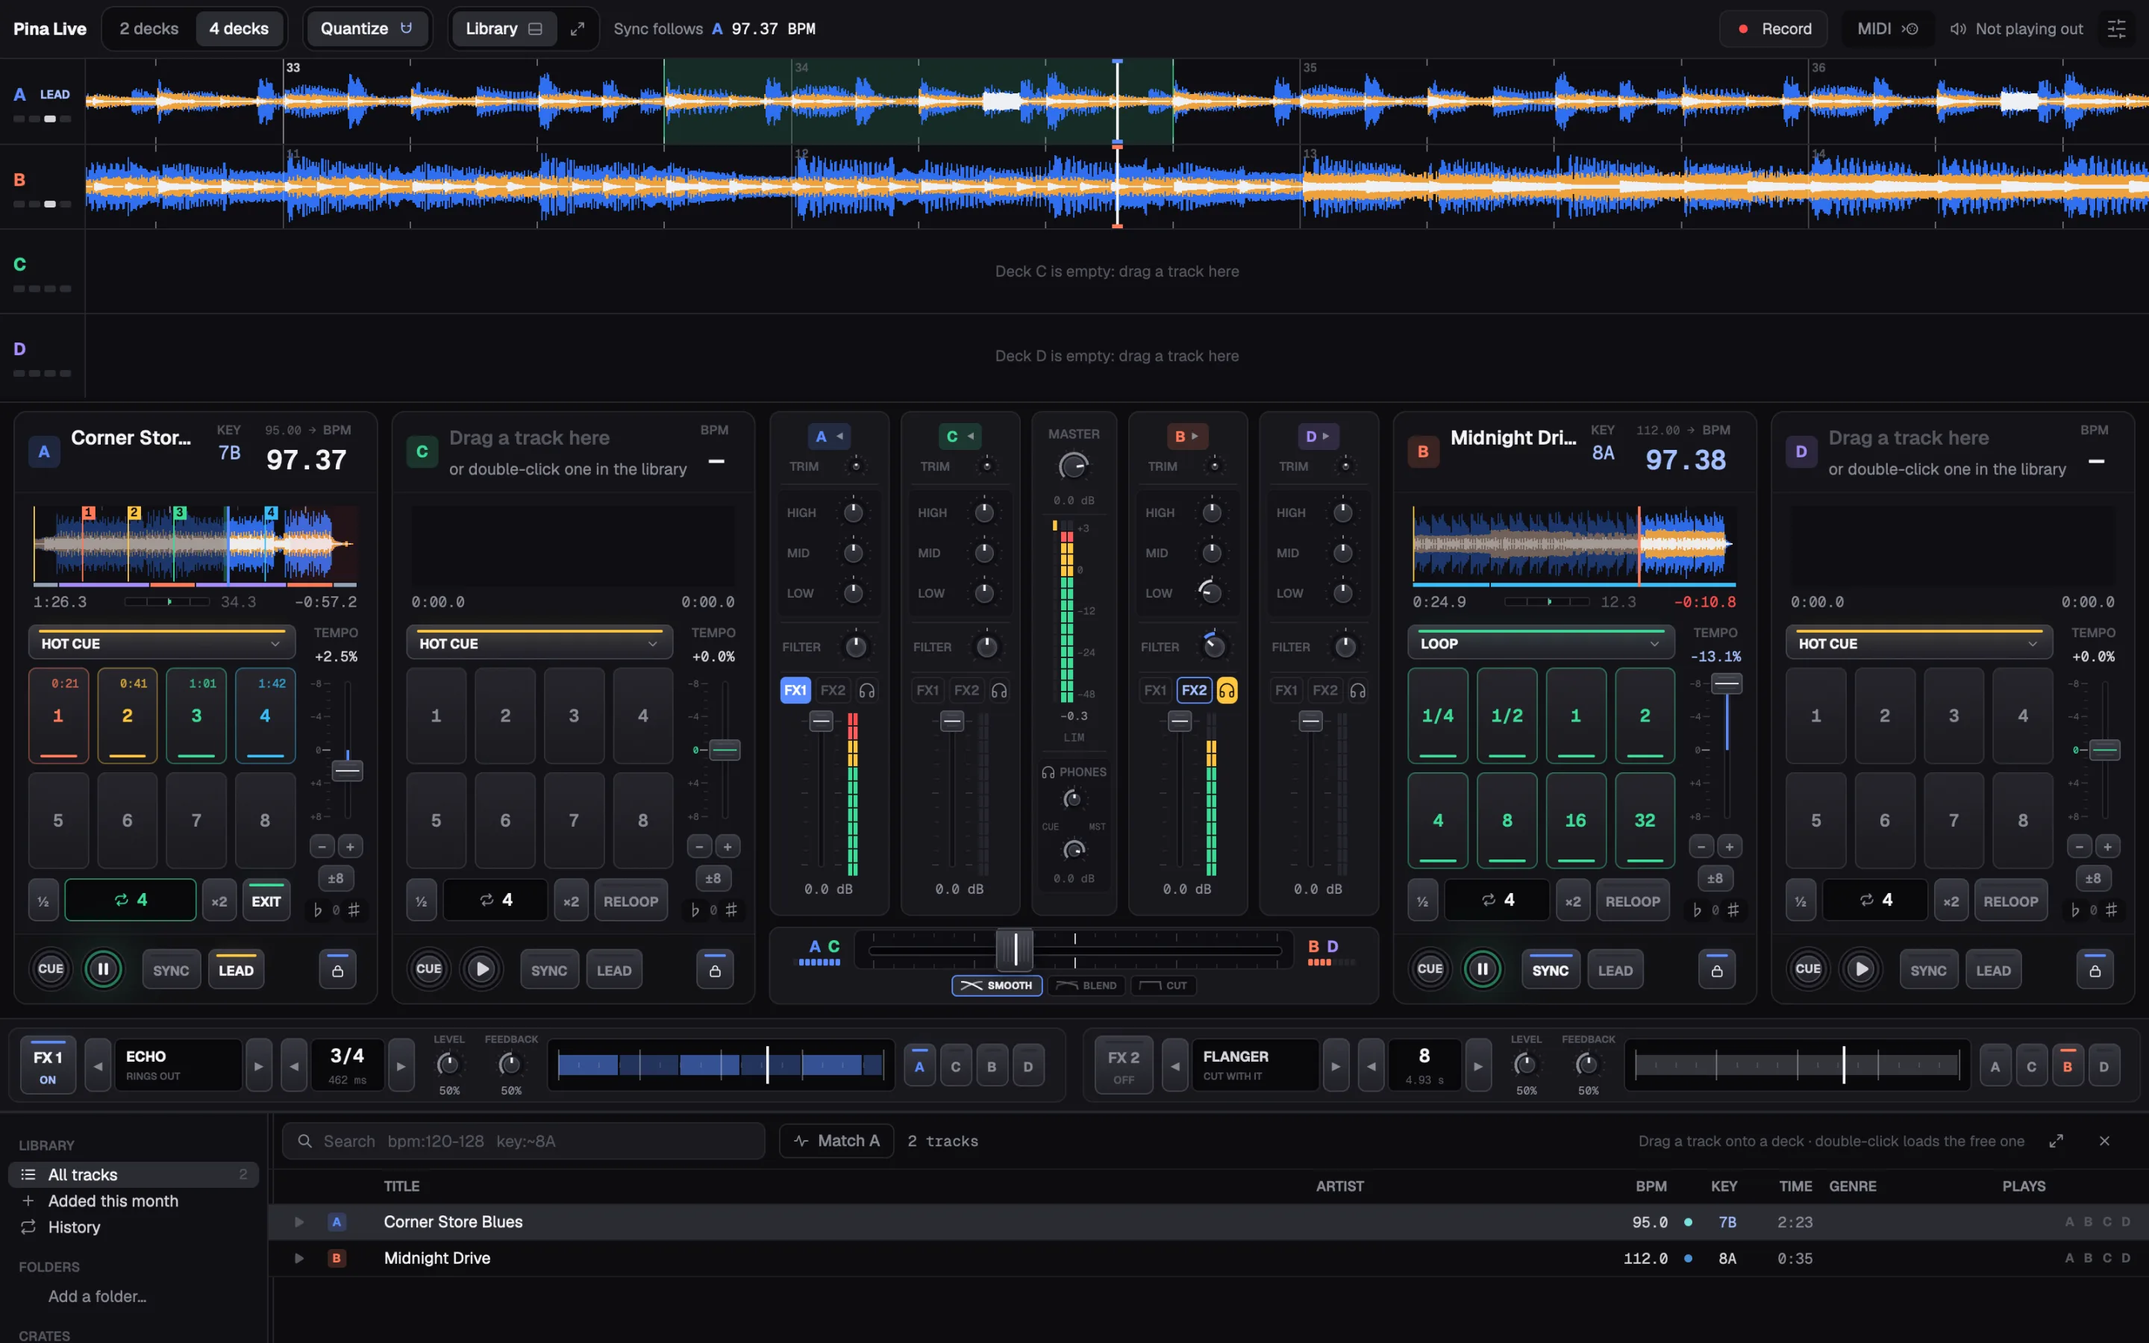
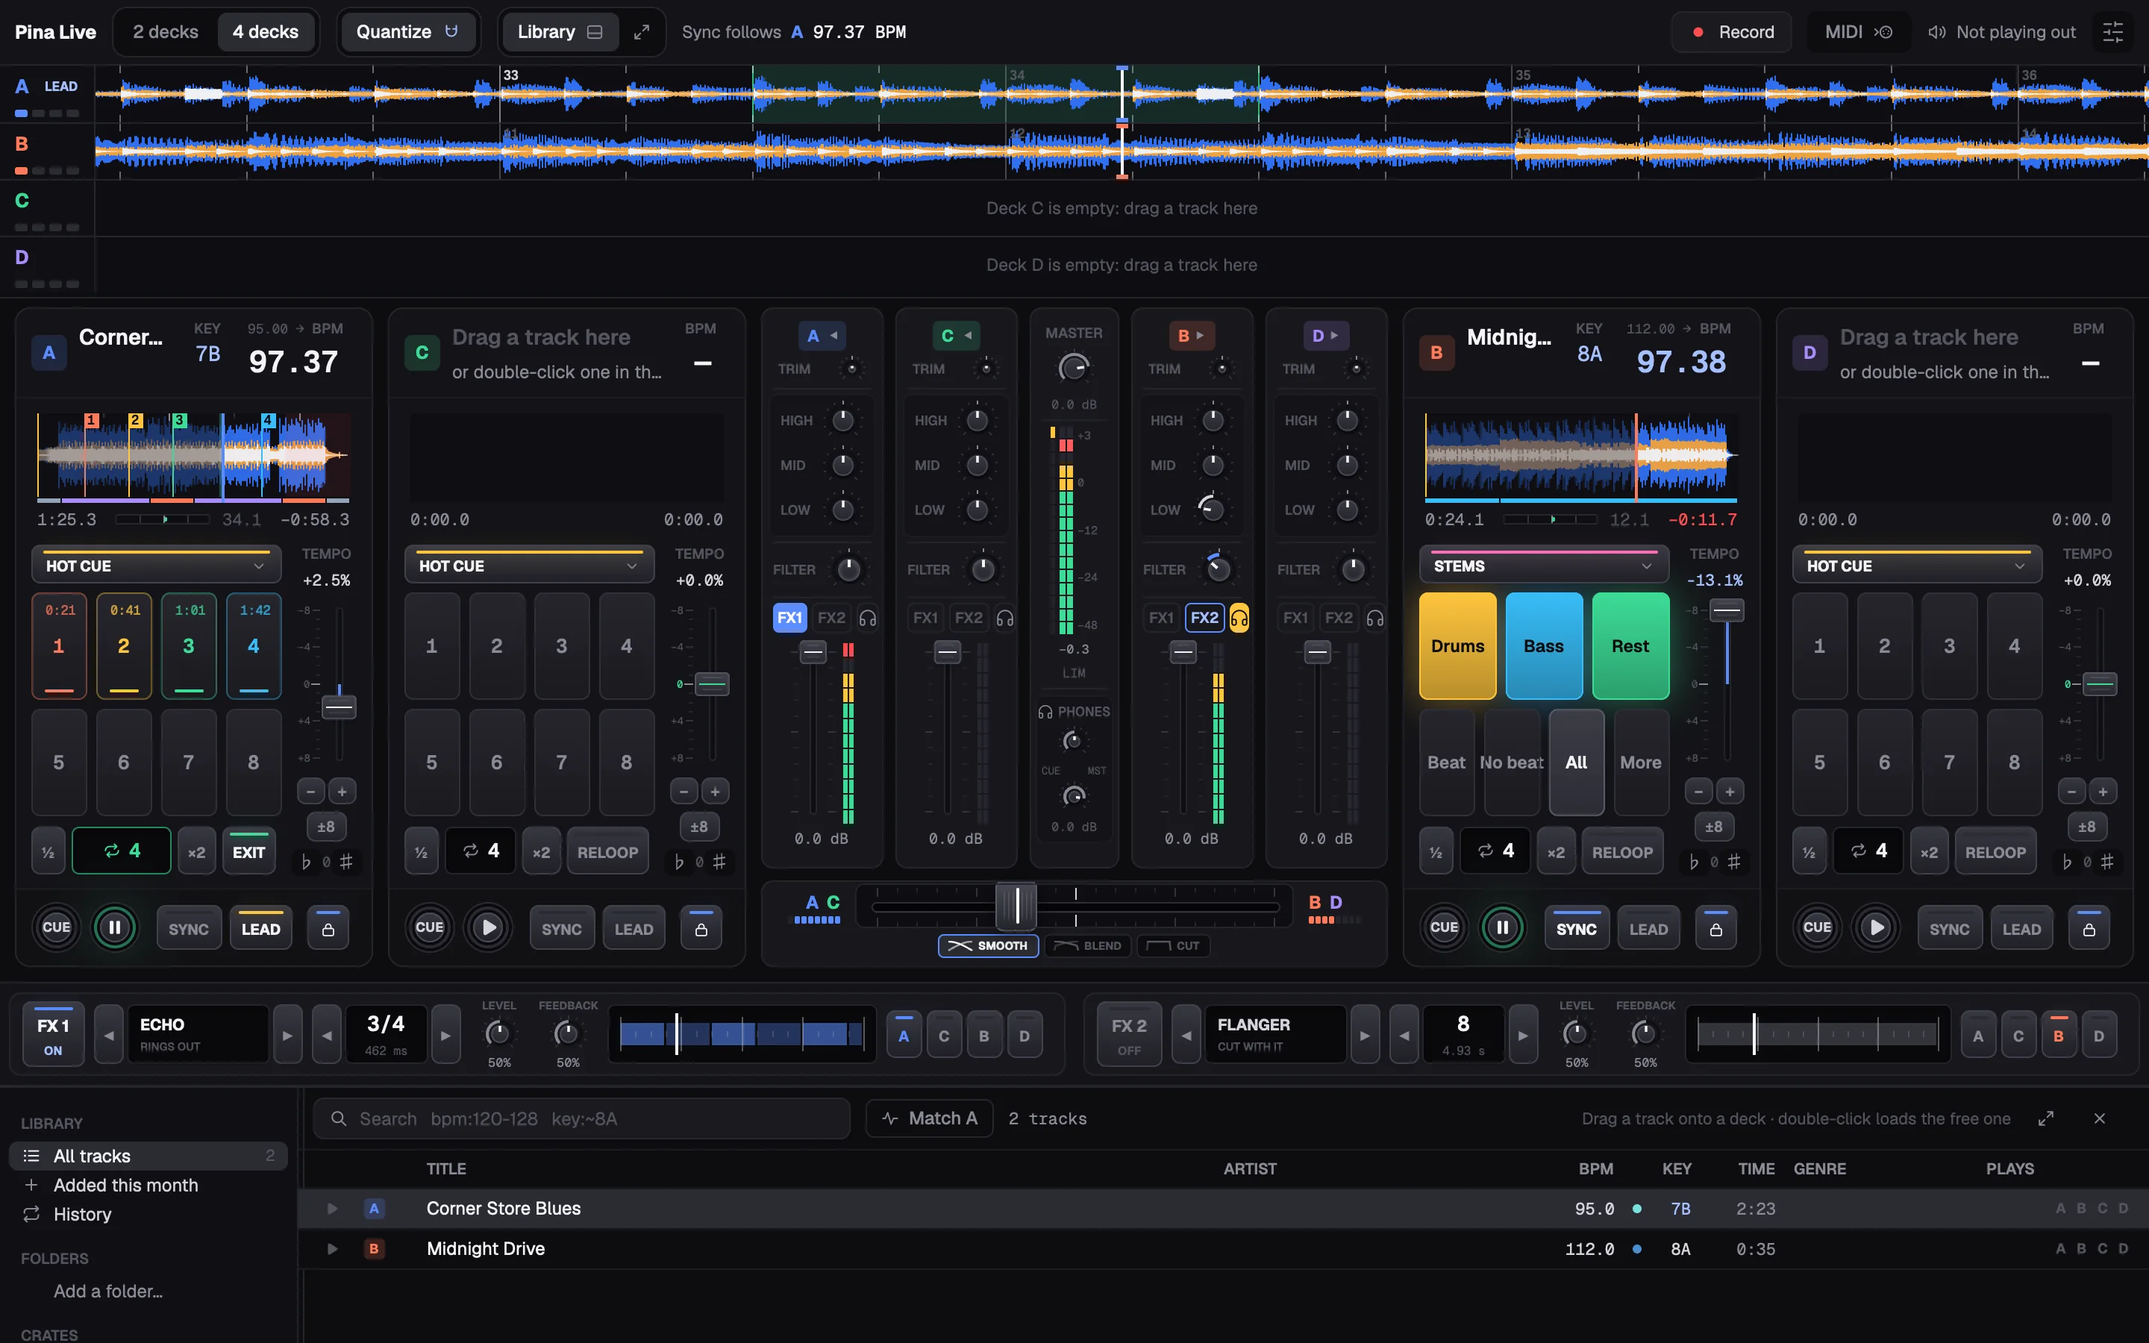
Website: Pina Live as Pina Studio's sister app, out now
The Pina Live section says what it is (Pina Studio's sister app, on the
same engine), with Download (the visitor's platform) and Open in your
browser, its version and the other platform. The download section gets
Pina Live beside Pina Studio: the disk image, the installer and zip, and
the browser. downloads.js fills both apps' links from their latest
releases. Fresh screenshots of today's decks, stems and four decks.

diff --git a/site/index.html b/site/index.html
@@ -691,9 +691,22 @@
     <!-- ============ PINA LIVE ============ -->
     <section class="studio" id="live" aria-labelledby="live-title">
       <header class="wrap section-head">
-        <p class="eyebrow reveal">Pina Live</p>
-        <h2 class="h2 reveal" id="live-title">Then take it to the decks. <span class="tone-2">Pina Live runs on the same engine.</span></h2>
-        <p class="lead reveal">Pina Live is a DJ app built on Pina Studio's engine: the same keylock stretch, the same ear for beat, bar and key, the same effects and limiter, and the same stem separation, made for playing live. Two decks or four, sync that lands on the bar, and stems you can pull apart mid-mix. It isn't out yet.</p>
+        <p class="eyebrow reveal">Pina Live <span class="sister-tag">Sister app</span></p>
+        <h2 class="h2 reveal" id="live-title">Pina Studio's sister app, for the decks. <span class="tone-2">Same engine, made to play live.</span></h2>
+        <p class="lead reveal">Pina Live is DJ software on Pina Studio's engine: the same keylock stretch, the same ear for beat, bar and key, the same effects and limiter, and the same stem separation. Two decks or four, sync that lands on the bar, and stems you can pull apart mid-mix. Free and open source, for macOS, Windows and your browser.</p>
+        <div class="hero__cta live__cta reveal">
+          <div class="hero__buttons">
+            <a class="btn btn--light btn--lg" data-live-dl="primary" href="https://github.com/manyeya/pina-live/releases/latest">
+              <svg class="ico" viewBox="0 0 24 24" aria-hidden="true"><path d="M12 4v11m0 0-4.5-4.5M12 15l4.5-4.5M5 19.5h14"/></svg>
+              <span data-live-dl-label="primary">Download Pina Live</span>
+            </a>
+            <a class="btn btn--glass btn--lg" href="https://manyeya.github.io/pina-live/" target="_blank" rel="noopener">
+              <svg class="ico" viewBox="0 0 24 24" aria-hidden="true"><rect x="3.5" y="5" width="17" height="14" rx="2.5"/><path d="M3.5 9h17M10 12.5l4 2.25-4 2.25z"/></svg>
+              <span>Open in your browser</span>
+            </a>
+          </div>
+          <p class="meta">Version <span data-live-version>0.1.0</span><span class="size" data-live-dl-size="primary"></span><span class="sep">/</span>also for <a data-live-dl="other" href="https://github.com/manyeya/pina-live/releases/latest"><span data-live-dl-other="label">Windows</span></a><span class="sep">/</span><a href="https://github.com/manyeya/pina-live">Source on GitHub</a></p>
+        </div>
       </header>
 
       <div class="wrap">
@@ -708,24 +721,24 @@
             <div class="tabs__panel" role="tabpanel" id="panel-live-decks" aria-labelledby="tab-live-decks" tabindex="0">
               <figure class="shot shot--fit" style="--ar:1.6" data-react>
                 <div class="glow" aria-hidden="true"><i></i><i></i><i></i><i></i><i></i></div>
-                <div class="bleed" aria-hidden="true"><img src="media/live-decks.webp?v=2" width="2880" height="1800" alt="" loading="lazy" decoding="async"></div>
-                <div class="frame"><img src="media/live-decks.webp?v=2" width="2880" height="1800" loading="lazy" decoding="async" alt="Pina Live with Corner Store Blues on deck A and Midnight Drive on deck B, synced at 97.37 BPM: numbered waveforms above; each deck's jog with its count and phrase, lit hot cue and loop pads, pitch fader, and CUE, PLAY, SYNC, LEAD and MATCH keys; the mixer and crossfader between them; two FX units and the library below."></div>
+                <div class="bleed" aria-hidden="true"><img src="media/live-decks.webp?v=3" width="2880" height="1800" alt="" loading="lazy" decoding="async"></div>
+                <div class="frame"><img src="media/live-decks.webp?v=3" width="2880" height="1800" loading="lazy" decoding="async" alt="Pina Live with Corner Store Blues on deck A and Midnight Drive on deck B, synced at 97.37 BPM: numbered waveforms above, a loop lit on A's; each deck's jog with its count and phrase, A's hot cues and loop, B's stem pads, the pitch faders, and CUE, PLAY, SYNC, LEAD and MATCH keys; the mixer and crossfader between them; Echo and Flanger in the FX units and the library below."></div>
               </figure>
               <p class="tabs__cap">Drag a track onto the deck you want, and it plays like a player: CUE and PLAY lit as a CDJ's are (PLAY's ring brightening on every beat), a jog with the phrase's sixteen beats round it and, on its screen, the phrase it's in and the bars left of it. Eight pads for hot cues, loops, rolls and jumps; keylock, slip, and sync that lands on the bar, then the beat; MATCH shifts a track's key to the nearest one that mixes with the other deck. The waveforms scroll above, numbered by the bar.</p>
             </div>
             <div class="tabs__panel" role="tabpanel" id="panel-live-stems" aria-labelledby="tab-live-stems" tabindex="0" hidden>
               <figure class="shot shot--fit" style="--ar:1.6" data-react>
                 <div class="glow" aria-hidden="true"><i></i><i></i><i></i><i></i><i></i></div>
-                <div class="bleed" aria-hidden="true"><img src="media/live-stems.webp?v=2" width="2880" height="1800" alt="" loading="lazy" decoding="async"></div>
-                <div class="frame"><img src="media/live-stems.webp?v=2" width="2880" height="1800" loading="lazy" decoding="async" alt="Stems in Pina Live: deck A parting its track as it loads, with BS-RoFormer SW, its progress and a Stop button; deck B with lit Drums, Bass and Rest pads, and Beat only, No beat, All and More."></div>
+                <div class="bleed" aria-hidden="true"><img src="media/live-stems.webp?v=3" width="2880" height="1800" alt="" loading="lazy" decoding="async"></div>
+                <div class="frame"><img src="media/live-stems.webp?v=3" width="2880" height="1800" loading="lazy" decoding="async" alt="Stems in Pina Live: deck A parting its track as it loads, with BS-RoFormer SW, 40% and about two seconds left, and a Stop button; deck B with lit Drums, Bass and Rest pads, and Beat only, No beat, All and More."></div>
               </figure>
               <p class="tabs__cap">Part a track into vocals, drums, bass and the rest, or just the part you need: vocals only or the beat only goes to the quickest model you have. Tracks are parted as they load, so the stems are usually there when you reach for them. Like Pina Studio, Pina Live ships no models: download one from where its maker hosts it, or add your own.</p>
             </div>
             <div class="tabs__panel" role="tabpanel" id="panel-live-four" aria-labelledby="tab-live-four" tabindex="0" hidden>
               <figure class="shot shot--fit" style="--ar:1.6" data-react>
                 <div class="glow" aria-hidden="true"><i></i><i></i><i></i><i></i><i></i></div>
-                <div class="bleed" aria-hidden="true"><img src="media/live-four.webp?v=2" width="2880" height="1800" alt="" loading="lazy" decoding="async"></div>
-                <div class="frame"><img src="media/live-four.webp?v=2" width="2880" height="1800" loading="lazy" decoding="async" alt="Pina Live with four decks: A and C left of the mixer, B and D right of it, four channel strips and the master between them, and the crossfader marked A C and B D."></div>
+                <div class="bleed" aria-hidden="true"><img src="media/live-four.webp?v=3" width="2880" height="1800" alt="" loading="lazy" decoding="async"></div>
+                <div class="frame"><img src="media/live-four.webp?v=3" width="2880" height="1800" loading="lazy" decoding="async" alt="Pina Live with four decks: A and C left of the mixer, B and D right of it, four channel strips and the master between them, and the crossfader marked A C and B D."></div>
               </figure>
               <p class="tabs__cap">Four decks: A and C on the crossfader's left, B and D on its right, each end lighting up with how much of it you hear. In a narrower window each side shows one deck at a time, switched between A and C or B and D. The mixer grows with the window, every panel resizes by its edge, and the library closes or fills the window.</p>
             </div>
@@ -839,6 +852,38 @@
             </div>
           </div>
         </div>
+
+        <div class="dl dl--live reveal" id="download-live">
+          <div class="dl__top">
+            <img class="dl__icon" src="media/live-icon-128.png" width="52" height="52" alt="" loading="lazy">
+            <div class="dl__brand">
+              <h3 class="dl__name">Pina Live <span class="sister-tag">Sister app</span></h3>
+              <p class="meta">DJ software on Pina Studio's engine. Version <span data-live-version>0.1.0</span><span class="sep">/</span><a href="https://github.com/manyeya/pina-live/releases">Every release</a></p>
+            </div>
+          </div>
+
+          <div class="dl__grid">
+            <div class="dl__os dl__os--mac">
+              <h3 class="dl__h">macOS</h3>
+              <p class="dl__what">Apple silicon and Intel. A disk image with an installer.</p>
+              <a class="dl__link" data-live-dl="mac" href="https://github.com/manyeya/pina-live/releases/latest">Disk image (.dmg)<span class="size" data-live-dl-size="mac"></span><svg class="ico" viewBox="0 0 24 24" aria-hidden="true"><path d="M12 4v11m0 0-4.5-4.5M12 15l4.5-4.5M5 19.5h14"/></svg></a>
+              <p class="dl__note">It isn't notarized yet. If macOS won't open it: System Settings › Privacy &amp; Security › Open Anyway.</p>
+            </div>
+            <div class="dl__os dl__os--win">
+              <h3 class="dl__h">Windows</h3>
+              <p class="dl__what">x64. A per-user installer, no administrator needed, or a zip.</p>
+              <a class="dl__link" data-live-dl="win" href="https://github.com/manyeya/pina-live/releases/latest">Installer (.exe)<span class="size" data-live-dl-size="win"></span><svg class="ico" viewBox="0 0 24 24" aria-hidden="true"><path d="M12 4v11m0 0-4.5-4.5M12 15l4.5-4.5M5 19.5h14"/></svg></a>
+              <a class="dl__link" data-live-dl="zip" href="https://github.com/manyeya/pina-live/releases/latest">Zip<span class="size" data-live-dl-size="zip"></span><svg class="ico" viewBox="0 0 24 24" aria-hidden="true"><path d="M12 4v11m0 0-4.5-4.5M12 15l4.5-4.5M5 19.5h14"/></svg></a>
+              <p class="dl__note">The installer isn't code-signed yet. If SmartScreen stops it, choose More info › Run anyway.</p>
+            </div>
+            <div class="dl__os dl__os--web">
+              <h3 class="dl__h">In your browser</h3>
+              <p class="dl__what">Nothing to install. Drop your tracks onto the page: they stay on your computer.</p>
+              <a class="dl__link" href="https://manyeya.github.io/pina-live/" target="_blank" rel="noopener">Open Pina Live<span class="size"></span><svg class="ico" viewBox="0 0 24 24" aria-hidden="true"><rect x="3.5" y="5" width="17" height="14" rx="2.5"/><path d="M3.5 9h17M10 12.5l4 2.25-4 2.25z"/></svg></a>
+              <p class="dl__note">Best in Chrome or Edge. Stems and recording are in the desktop app.</p>
+            </div>
+          </div>
+        </div>
       </div>
     </section>
   </main>
@@ -851,6 +896,7 @@
         <a href="https://github.com/manyeya/pina-studio">GitHub</a>
         <a href="https://github.com/manyeya/pina-studio/blob/main/CHANGELOG.md">Changelog</a>
         <a href="https://github.com/manyeya/pina-studio/releases">Releases</a>
+        <a href="#live">Pina Live</a>
       </nav>
     </div>
   </footer>

diff --git a/site/downloads.js b/site/downloads.js
@@ -1,12 +1,16 @@
-// The download links, from the latest release on GitHub. Until it answers (or if it can't), each
-// link goes to the releases page. Marks up:
+// The download links, from the latest release on GitHub: Pina Studio's, and its sister app Pina
+// Live's. Until GitHub answers (or if it can't), each link goes to the releases page. Marks up,
+// for Pina Studio (Pina Live's are the same with "live-" after "data-": data-live-dl="mac"):
 //   <a data-dl="mac|win|zip|primary">   the file's link ("primary": the visitor's platform)
 //   <span data-dl-size="mac|win|zip">   its size, "29.9 MB"
 //   <span data-dl-label="primary">      "Download for macOS" or "…for Windows"
 //   <span data-dl-other="label">        the other platform's name; <a data-dl="other"> its link
 //   <span data-version>                 "0.3.0"
 (() => {
-  const REPO = "manyeya/pina-studio";
+  const APPS = [
+    ["manyeya/pina-studio", "data-"],
+    ["manyeya/pina-live", "data-live-"],
+  ];
   const platform = (navigator.userAgentData?.platform || navigator.platform || "").toLowerCase();
   const os = platform.includes("win") ? "win" : "mac";
   const other = os === "win" ? "mac" : "win";
@@ -15,24 +19,26 @@
 
   const each = (sel, f) => document.querySelectorAll(sel).forEach(f);
   const mb = (bytes) => `${(bytes / 1e6).toFixed(1)} MB`;
-
-  each('[data-dl-label="primary"]', (el) => (el.textContent = `Download for ${names[os]}`));
-  each('[data-dl-other="label"]', (el) => (el.textContent = names[other]));
   document.documentElement.dataset.os = os;
 
-  fetch(`https://api.github.com/repos/${REPO}/releases/latest`)
-    .then((r) => (r.ok ? r.json() : Promise.reject(r.status)))
-    .then((release) => {
-      const find = (key) => release.assets.find((a) => a.name.endsWith(ends[key]));
-      const files = { mac: find("mac"), win: find("win"), zip: find("zip") };
-      files.primary = files[os];
-      files.other = files[other];
-      for (const [key, file] of Object.entries(files)) {
-        if (!file) continue;
-        each(`[data-dl="${key}"]`, (el) => (el.href = file.browser_download_url));
-        each(`[data-dl-size="${key}"]`, (el) => (el.textContent = mb(file.size)));
-      }
-      each("[data-version]", (el) => (el.textContent = release.tag_name.replace(/^v/, "")));
-    })
-    .catch(() => {});
+  for (const [repo, at] of APPS) {
+    each(`[${at}dl-label="primary"]`, (el) => (el.textContent = `Download for ${names[os]}`));
+    each(`[${at}dl-other="label"]`, (el) => (el.textContent = names[other]));
+
+    fetch(`https://api.github.com/repos/${repo}/releases/latest`)
+      .then((r) => (r.ok ? r.json() : Promise.reject(r.status)))
+      .then((release) => {
+        const find = (key) => release.assets.find((a) => a.name.endsWith(ends[key]));
+        const files = { mac: find("mac"), win: find("win"), zip: find("zip") };
+        files.primary = files[os];
+        files.other = files[other];
+        for (const [key, file] of Object.entries(files)) {
+          if (!file) continue;
+          each(`[${at}dl="${key}"]`, (el) => (el.href = file.browser_download_url));
+          each(`[${at}dl-size="${key}"]`, (el) => (el.textContent = mb(file.size)));
+        }
+        each(`[${at}version]`, (el) => (el.textContent = release.tag_name.replace(/^v/, "")));
+      })
+      .catch(() => {});
+  }
 })();

diff --git a/site/style.css b/site/style.css
@@ -1472,3 +1472,34 @@ html[data-os="win"] .dl__os--win { order: -1; }
   .bleed { opacity: .5; }
   .flood i { --flood: .85; }
 }
+
+/* ============ PINA LIVE, THE SISTER APP ============ */
+.sister-tag {
+  display: inline-flex;
+  align-items: center;
+  height: 22px;
+  padding: 0 9px;
+  border-radius: 999px;
+  font-family: var(--font-mono);
+  font-size: 11px;
+  font-weight: 500;
+  letter-spacing: .06em;
+  text-transform: uppercase;
+  color: var(--text-2);
+  background: rgba(255, 255, 255, .05);
+  box-shadow: inset 0 0 0 1px var(--line-2);
+  vertical-align: middle;
+}
+.btn--glass { background: rgba(255, 255, 255, .05); color: var(--text); box-shadow: inset 0 0 0 1px var(--line-2); }
+.btn--glass:hover { background: rgba(255, 255, 255, .09); box-shadow: inset 0 0 0 1px #3a3a48; }
+.btn--glass:active { transform: scale(.98); background: rgba(255, 255, 255, .07); }
+.live__cta { margin-top: 36px; }
+.dl--live { margin-top: 20px; }
+.dl__icon { width: 52px; height: 52px; flex: none; }
+.dl__brand { display: grid; gap: 6px; }
+.dl__name { display: flex; align-items: center; gap: 12px; font-size: var(--fs-h3); font-weight: 600; letter-spacing: -.01em; color: var(--text); }
+.dl__os--web .ico { transform: none; }
+.dl__os--web .dl__link:hover .ico { transform: none; }
+.dl--live .dl__top { flex-wrap: nowrap; }
+.dl__brand { min-width: 0; }
+@media (max-width: 560px) { .dl__icon { width: 44px; height: 44px; } }
